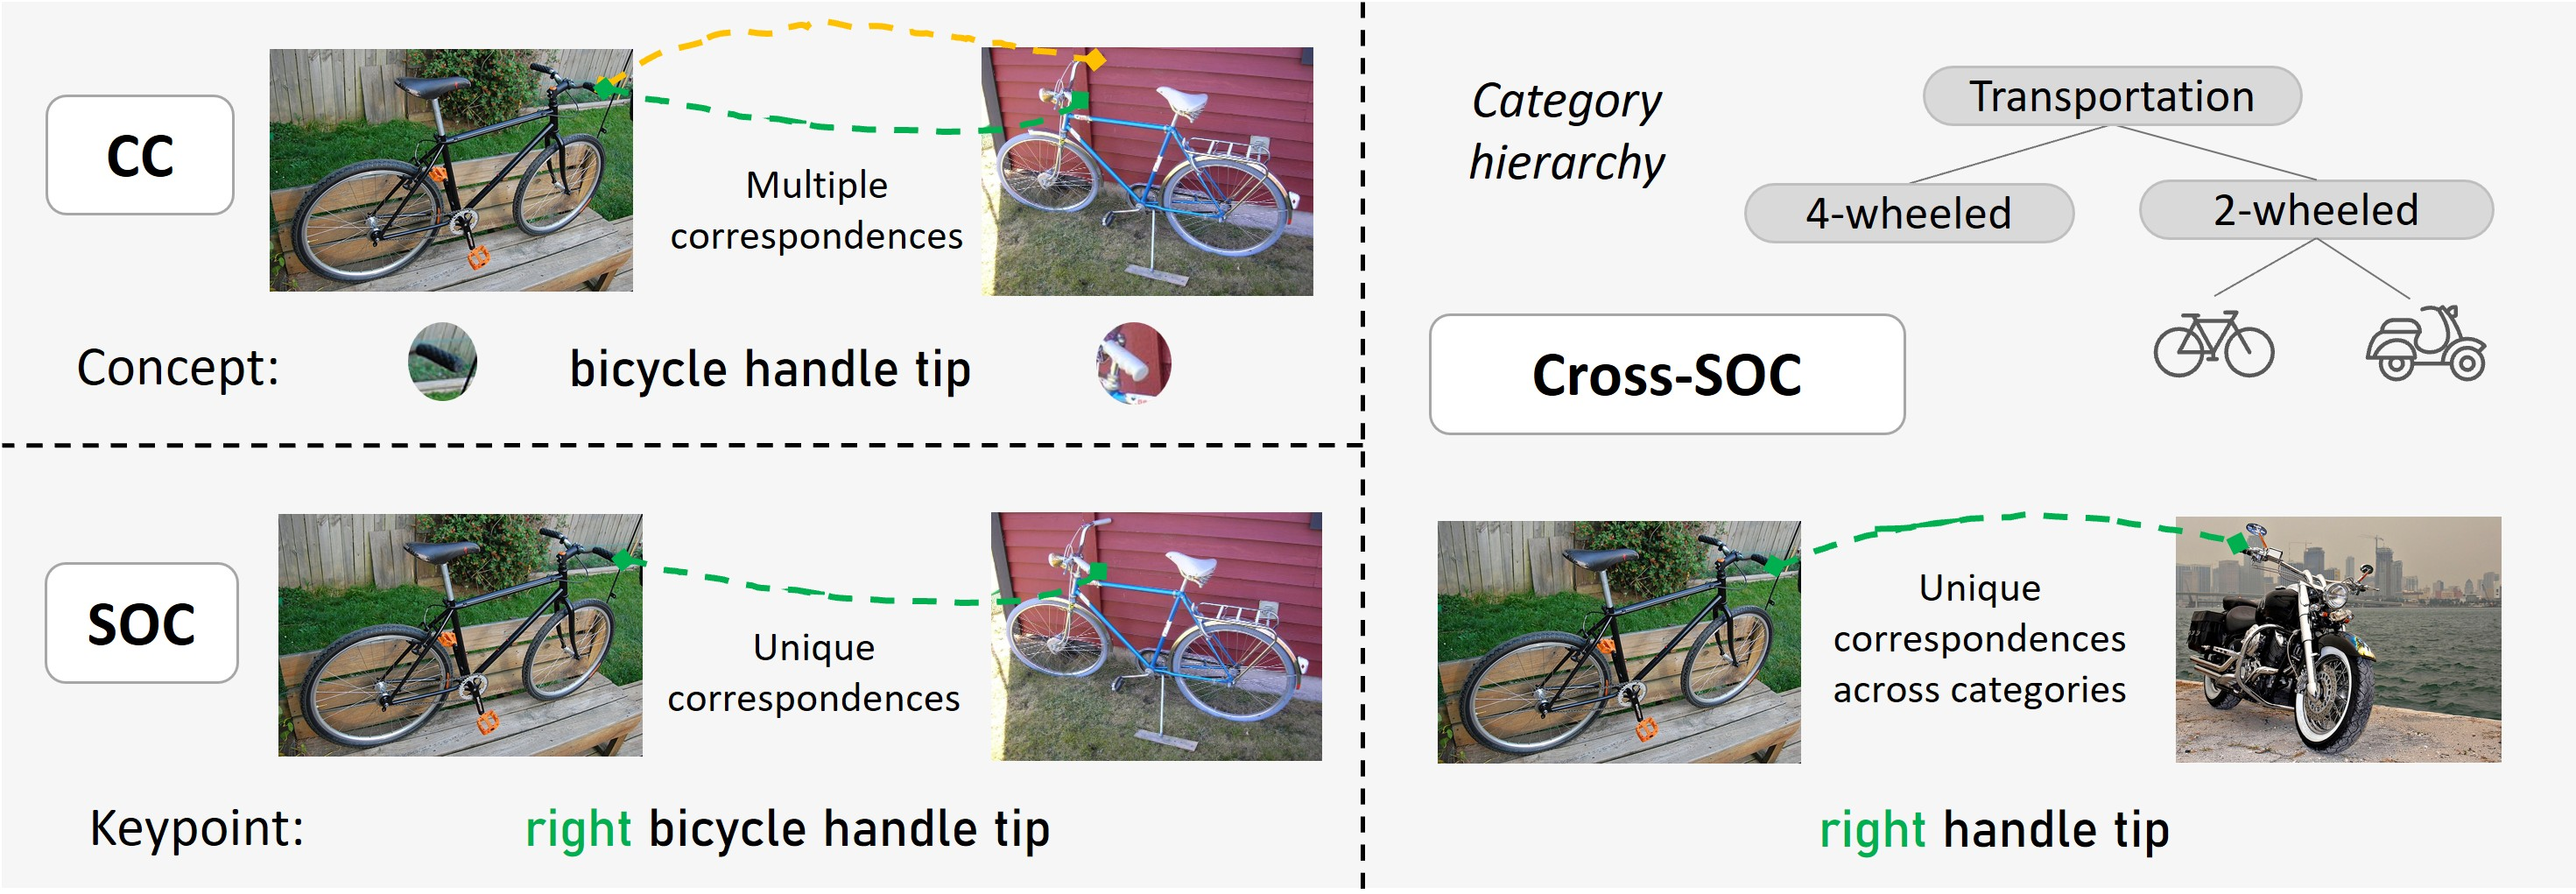
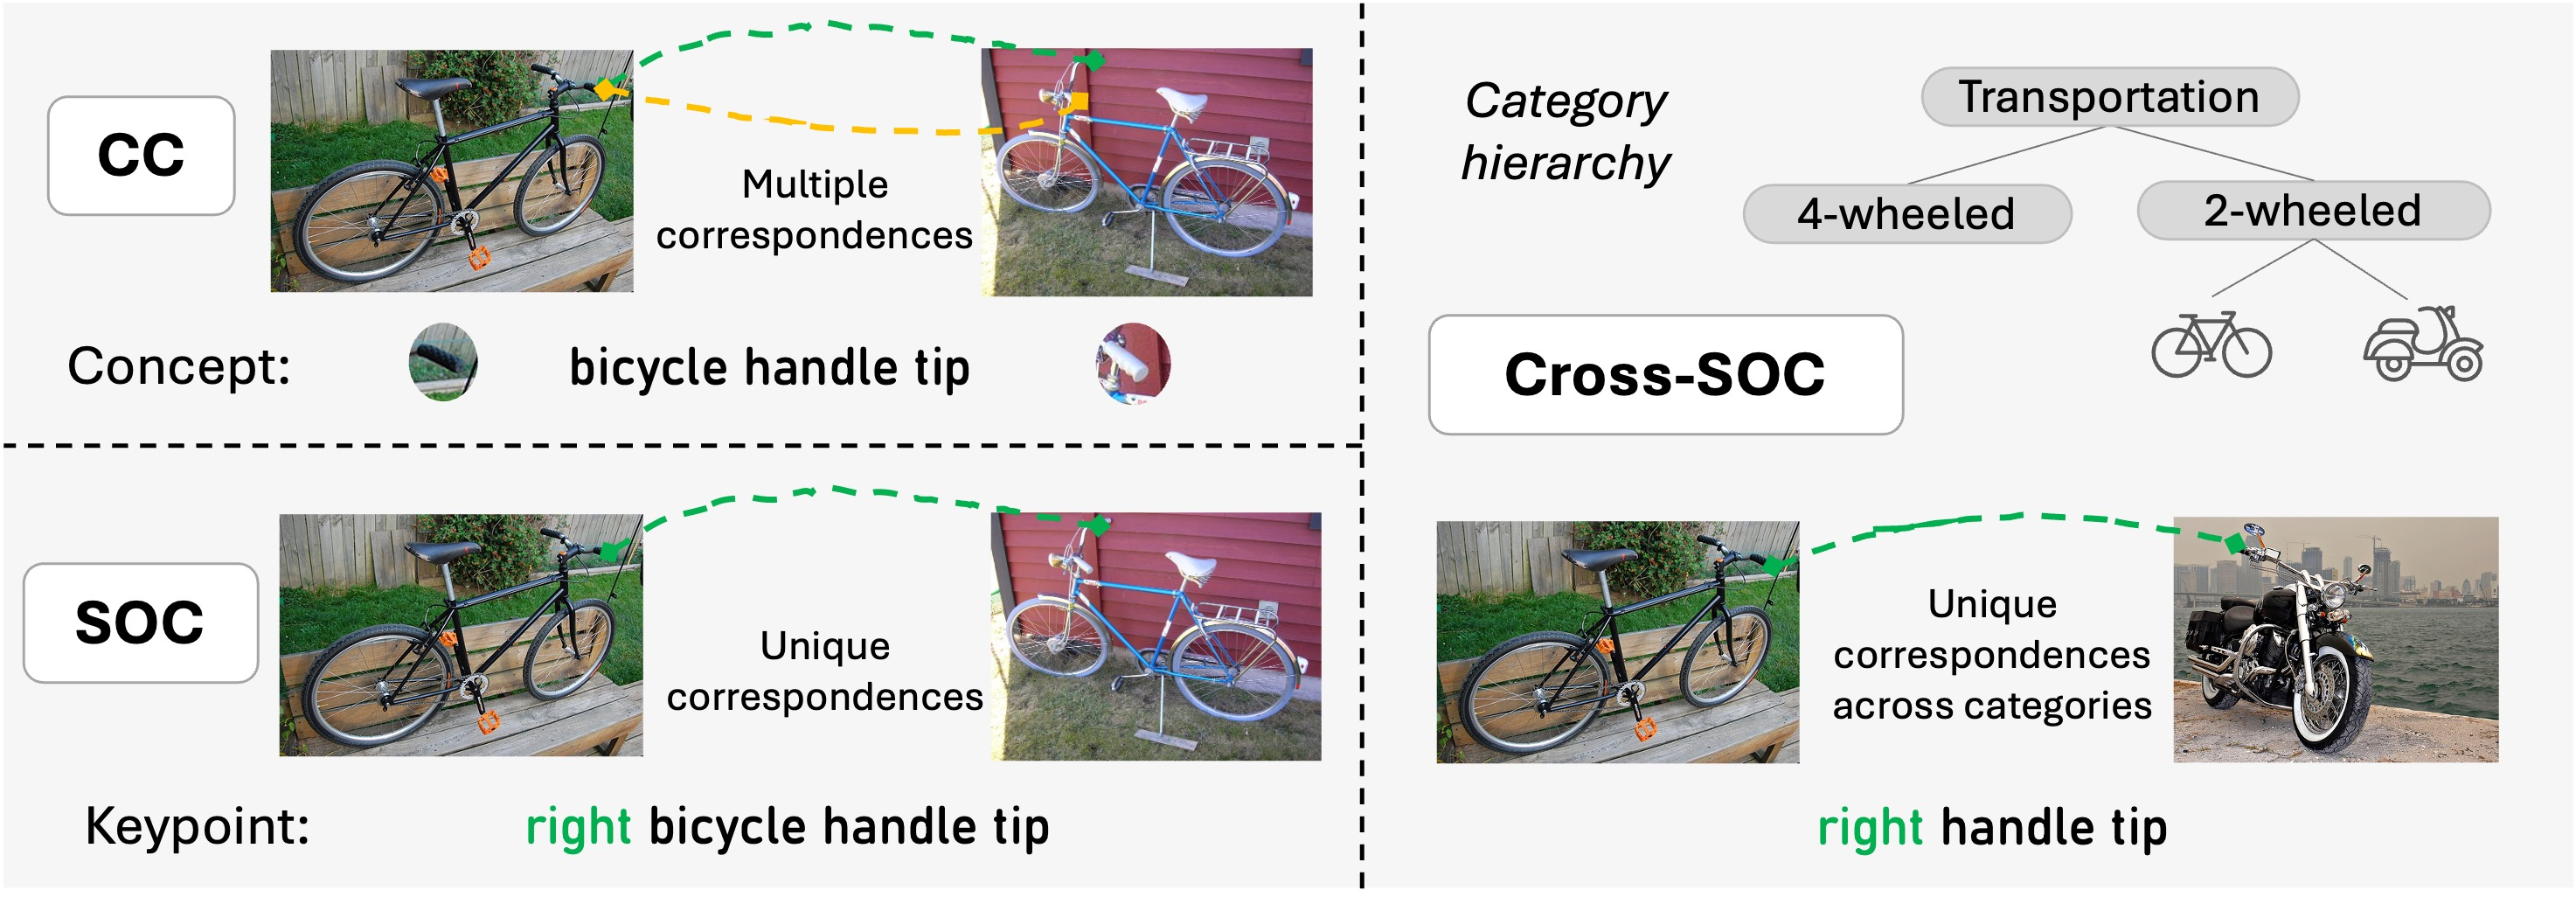
Update the fig and index.

diff --git a/index.html b/index.html
@@ -1,4 +1,9 @@
 <!DOCTYPE html>
+<!--
+  SOCO project page.
+  Design and HTML/CSS scaffolding adapted from the CRONOS project page
+  (https://github.com/genintel/cronos).
+-->
 <html lang="en">
 <head>
   <meta charset="UTF-8" />
@@ -47,9 +52,9 @@
 
       <!-- Action buttons -->
       <nav class="action-buttons">
-        <span class="btn btn--disabled" aria-disabled="true" title="Released upon acceptance">
-          <span class="btn-icon">📄</span> Paper <span class="btn-soon">· soon</span>
-        </span>
+        <a class="btn" href="https://arxiv.org/abs/2605.31597" target="_blank" rel="noopener">
+          <span class="btn-icon">📄</span> Paper
+        </a>
         <span class="btn btn--disabled" aria-disabled="true" title="Released upon acceptance">
           <span class="btn-icon">💻</span> Code <span class="btn-soon">· soon</span>
         </span>
@@ -239,7 +244,7 @@
             Current LVLMs are far stronger at text-prompted part localisation than at
             visual-reference cross-image matching. <strong>Qwen3-VL-8B</strong> rises from
             <strong>34.2 (Vis.)</strong> to <strong>54.0 (Desc.)</strong> — yet all remain well below
-            the DINOv2 ceiling of <strong>79.4</strong>.
+            the DINOv2 ceiling of <strong>81.0</strong>.
           </p>
         </div>
 
@@ -495,6 +500,7 @@
             <tbody>
               <tr><td>Random</td><td>0.4</td><td>0.4</td><td>0.4</td></tr>
               <tr><td>Random++</td><td>25.0</td><td>25.0</td><td>25.0</td></tr>
+              <tr><td><em>DINOv2 (VFM ceiling)</em></td><td><strong>81.0</strong></td><td>—</td><td>—</td></tr>
               <tr><td>LLaVA-OV-7B</td><td>2.9</td><td>14.1</td><td>24.3</td></tr>
               <tr><td>InternVL3.5-8B</td><td>24.9</td><td><strong>38.5</strong></td><td>39.6</td></tr>
               <tr><td>Qwen2.5-VL-3B</td><td>5.2</td><td>17.4</td><td>29.9</td></tr>
@@ -540,11 +546,6 @@
         AK acknowledges support via his Emmy Noether Research Group funded by the German Research
         Foundation (DFG) under grant number 468670075.
       </p>
-      <p>
-        This research was funded by the Deutsche Forschungsgemeinschaft (DFG, German Research
-        Foundation) under grant number 539134284, through EFRE (FEIH_2698644) and the state of
-        Baden-Württemberg.
-      </p>
       <p> We thank Matthis Heimberg for early analyses and experiments. </p>
       <!--
       <div class="ack-logos">
@@ -564,10 +565,10 @@
   author        = {D{\"u}nkel, Olaf and Sunagad, Basavaraj and Wang, Haoran and
                    Hoffmann, David T. and Theobalt, Christian and Kortylewski, Adam},
   year          = {2026},
-  eprint        = {XXXX.XXXXX},
+  eprint        = {2605.31597},
   archivePrefix = {arXiv},
   primaryClass  = {cs.CV},
-  url           = {https://arxiv.org/abs/XXXX.XXXXX}
+  url           = {https://arxiv.org/abs/2605.31597}
 }</code></pre>
     </div>
   </section>
@@ -908,6 +909,16 @@
       window.addEventListener('load', function () { chart.resize(); });
     })();
   </script>
+
+  <!-- ============== FOOTER ============== -->
+  <footer class="footer">
+    <div class="container narrow">
+      <p>
+        Webpage adapted from the
+        <a href="https://genintel.github.io/CRONOS/" target="_blank" rel="noopener">CRONOS project page</a>.
+      </p>
+    </div>
+  </footer>
 
 </body>
 </html>